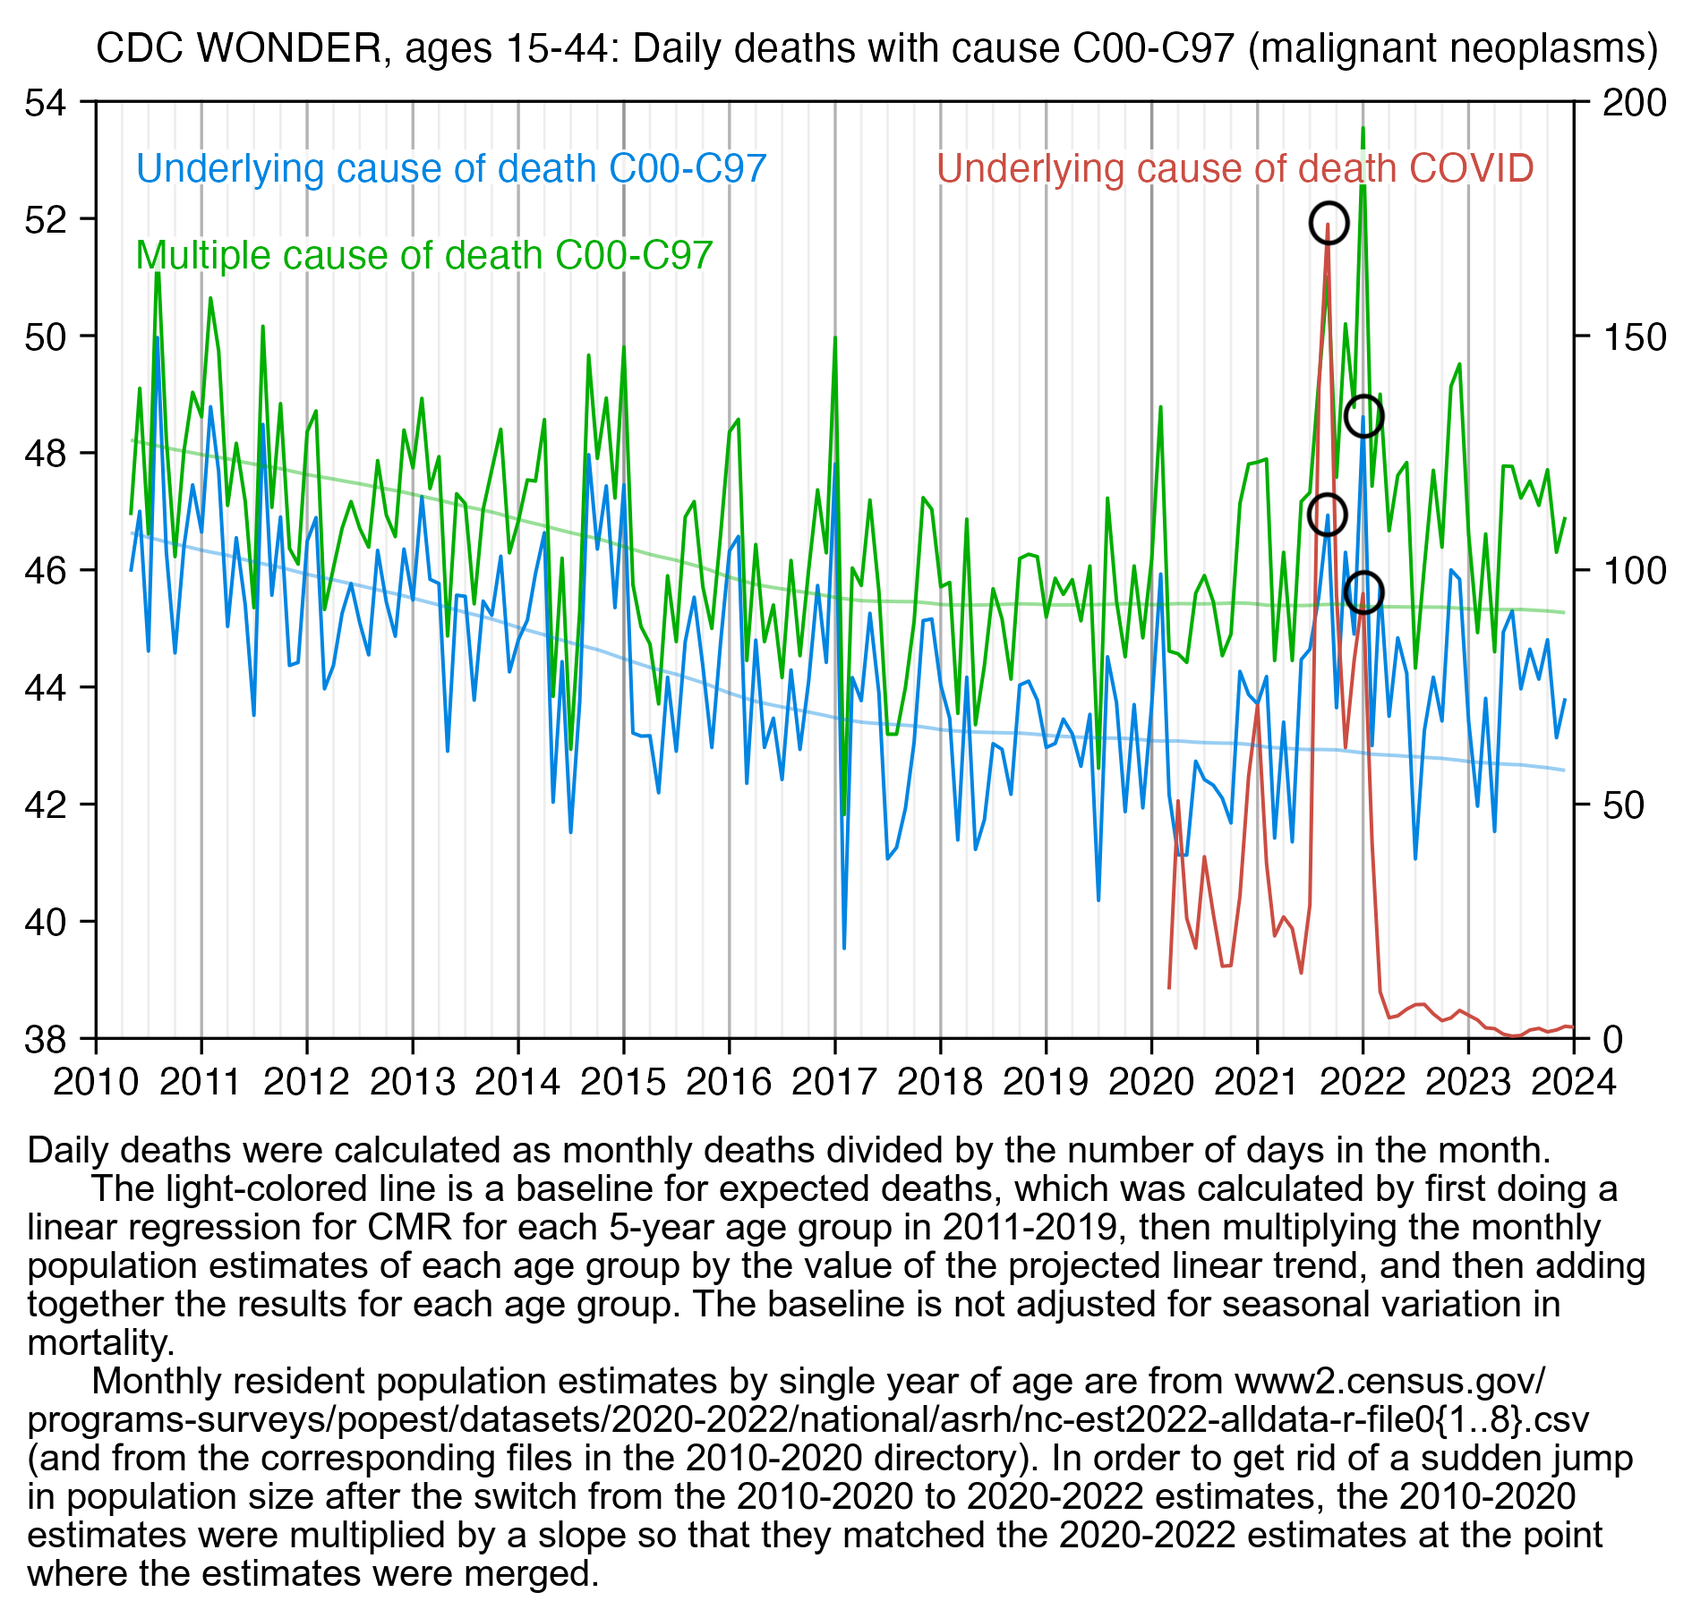
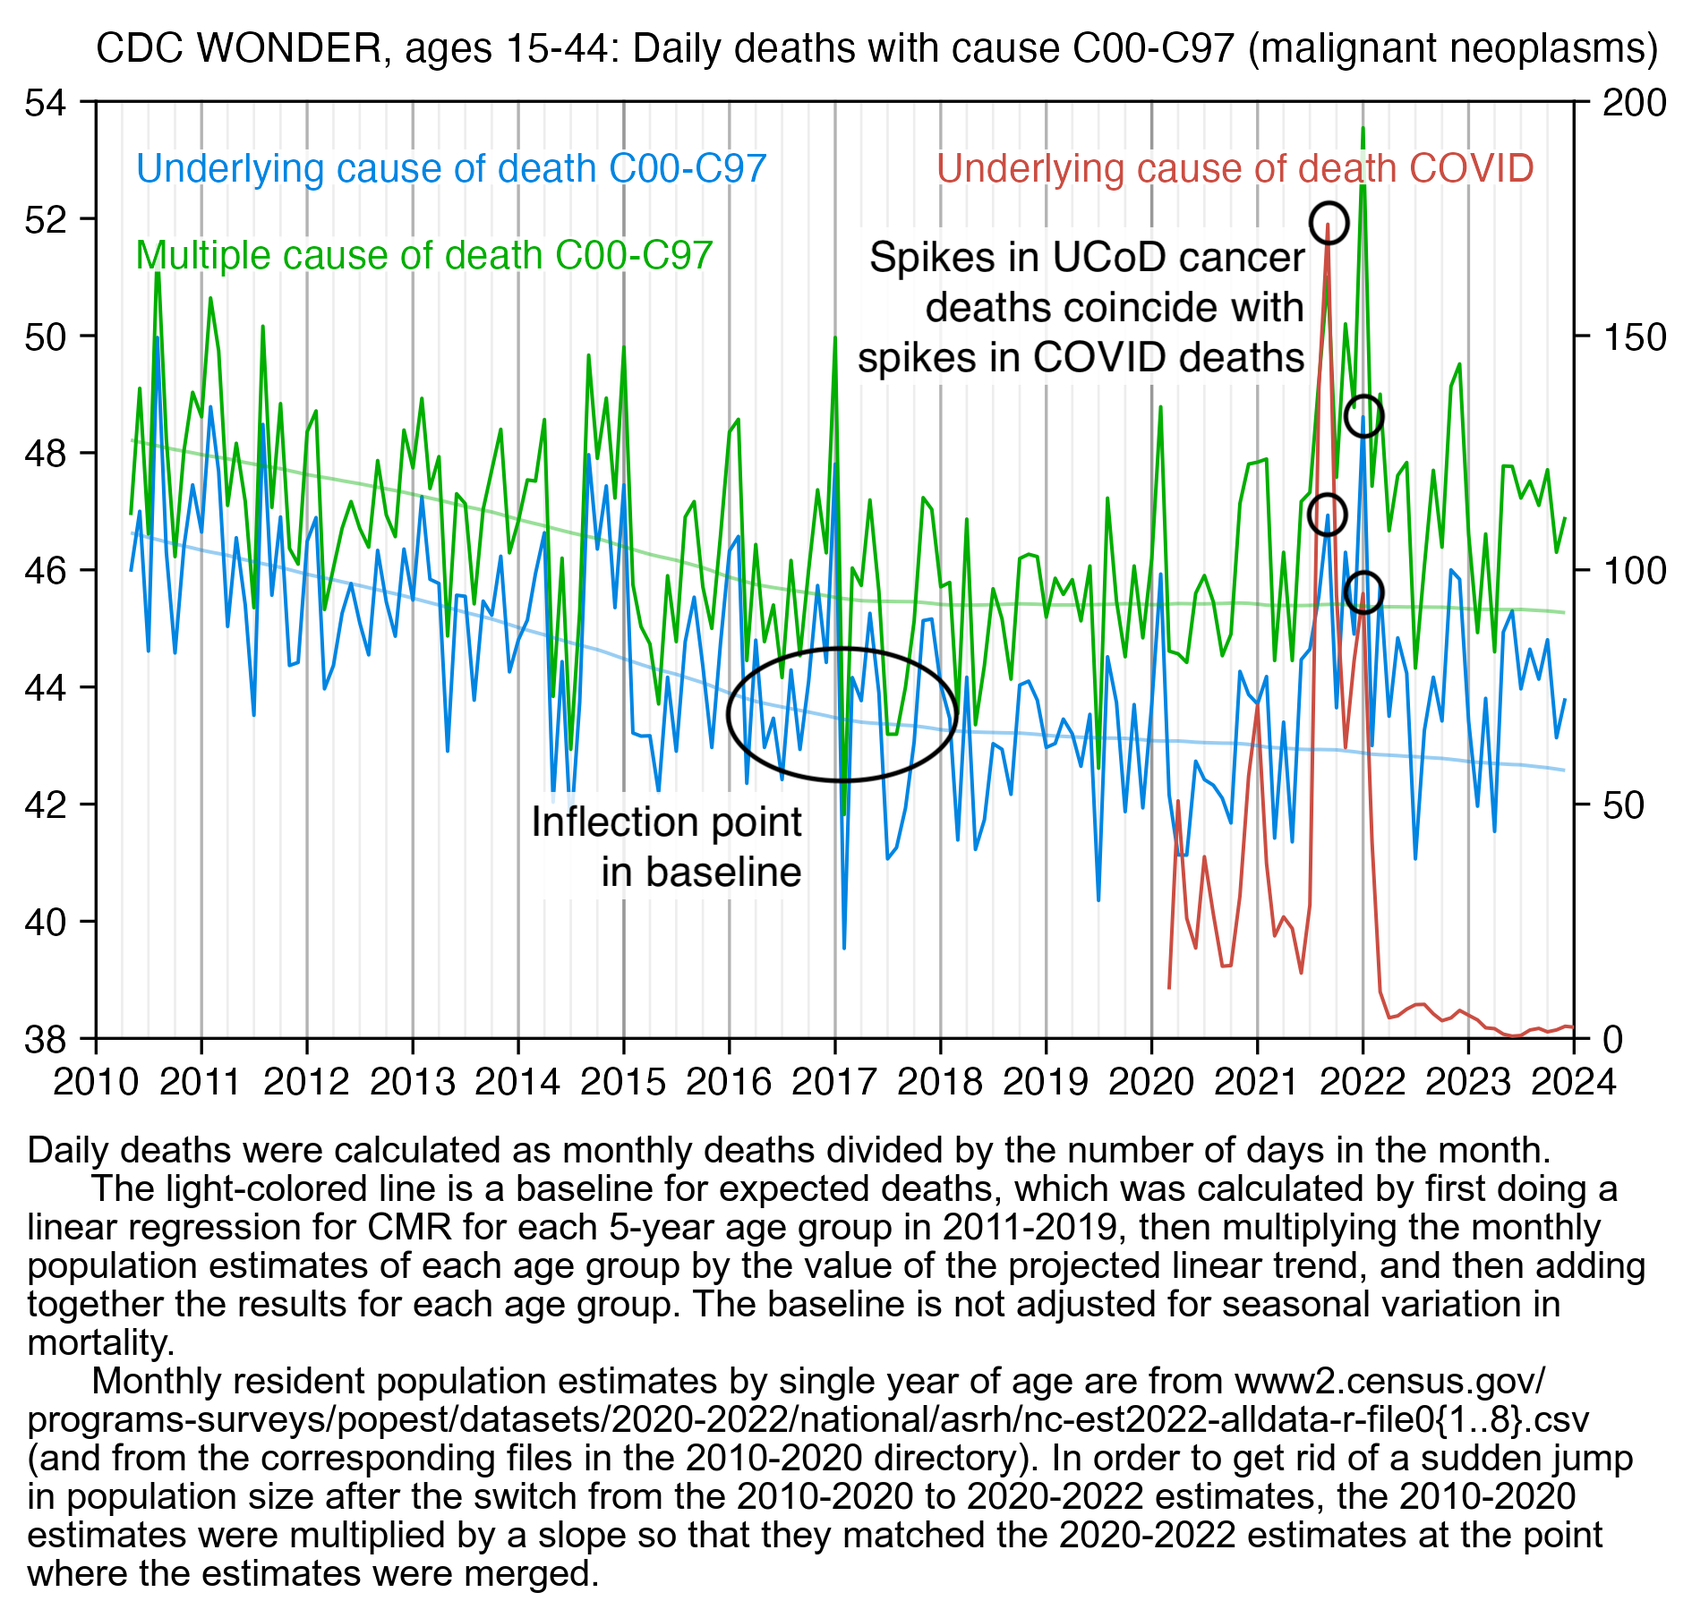
a

diff --git a/statistic.html b/statistic.html
@@ -1235,16 +1235,16 @@ system(&quot;f=0.png;w=`identify -format %w $f`;convert -interline-spacing -2 -g
 <div class="width4">
 <img src="i/statistic-dowd-1.jpg">
 </div>
-<p>However the x-axis in the plots above started in 2010, so you couldn't see that the the increase in mortality between 2020 and 2021 wasn't that big compared to the decrease since 1999 which is when the data at CDC WONDER starts. And you also couldn't see that the long-term trend in CMR between 1999 and 2020 looked curved so that it got flatter over time, and therefore the 2010-2019 linear trend used by Dowd's group might have been too steep relative to a longer-term polynomial trend:</p>
+<p>However the x-axis in the plots above started in 2010, so you couldn't see that the the increase in mortality between 2020 and 2021 wasn't that big compared to the decrease since 1999 (which is when the data at CDC WONDER starts). And you also couldn't see that the long-term trend in CMR between 1999 and 2019 looked curved so that it got flatter over time, and therefore the 2010-2019 linear trend used by Dowd's group might have been too steep relative to a longer-term polynomial trend:</p>
 <div class="width6">
 <img src="i/statistic-dowd-4.png">
 </div>
-<p>In Dowd's preprint they plotted only CMR and raw deaths but not ASMR. But relative to the decrease in mortality rate in the two previous decades, the increase between 2020 and 2021 was smaller with CMR than raw deaths, and it was even smaller with ASMR than CMR:</p>
+<p>In Dowd's preprint they plotted only CMR and raw deaths but not ASMR. But relative to the decrease in mortality rate in the two previous decades, the increase between 2020 and 2021 was smaller with CMR than with raw deaths, and it was even smaller with ASMR than with CMR:</p>
 <div class="width6">
 <img src="i/statistic-dowd-2.png">
 </div>
 <p>Dowd's team retrieved the data from CDC WONDER when it still used 2021 population estimates for 2022, so they got higher CMR in 2022 than 2021, like how the blue cross in my plot above is higher than the 2021 CMR. But I retrieved data from CDC WONDER after the 2022 population sizes had already been added, so I got lower CMR in 2022 than 2021.</p>
-<p>Here you can see that the 2023 population size is identical to 2022 because 2023 population estimates have not yet been added to CDC WONDER:</p>
+<p>Here you can see that the 2023 population size is identical to 2022 because 2023 population estimates had not yet been added to CDC WONDER at the time when I downloaded the data:</p>
 <pre>&gt; t=read.csv(&quot;http://sars2.net/f/wondercanceryearlysingle.csv&quot;)|&gt;subset(age%in%15:44)
 &gt; a=aggregate(t[,3:4],t[,2,drop=F],sum)
 &gt; tail(a)
@@ -1260,7 +1260,7 @@ system(&quot;f=0.png;w=`identify -format %w $f`;convert -interline-spacing -2 -g
 [1] 12.48556
 &gt; a$dead[a$year==2022]/a$pop[a$year==2021]*1e5
 [1] 12.63225</pre>
-<p>Here's code for producing the plot above:</p>
+<p>Here's code for producing the previous plot:</p>
 <pre>library(ggplot2)
 
 t=read.csv(&quot;http://sars2.net/f/wondercanceryearlysingle.csv&quot;)|&gt;subset(age%in%15:44)
@@ -1335,11 +1335,11 @@ theme(axis.text=element_text(size=7,color=&quot;black&quot;),
   plot.subtitle=element_text(size=7,margin=margin(0,0,.7,0,&quot;lines&quot;)),
   plot.title=element_text(size=8,margin=margin(0,0,.6,0,&quot;lines&quot;)))
 ggsave(&quot;1.png&quot;,width=4.3,height=3.5,dpi=450)</pre>
-<p>In the next plot I first calculated a linear trend in CMR within each 5-year age group in 2010-2019, and then I multiplied the projected baseline by the population size of each age group in order to get the expected deaths for each age group, and I added together the expected deaths on each month. So my method allows plotting raw deaths on the y-axis while taking changes to the age composition of the cohort into account. In my plot there's an inflection point in the slope of the baseline around the year 2017 after which the baseline becomes more flat. So the 2010-2019 linear baseline used by Dowd's group exaggerated excess deaths during COVID because the slope of the baseline was too steep.</p>
-<p>My plot also shows that in September 2021 and January 2022 when there's big spikes in COVID deaths, there's also more UCoD cancer deaths than in the surrounding months, so part of the increase in UCoD cancer deaths might be explained by COVID deaths:</p>
+<p>In the next plot I first calculated a linear trend in CMR within each 5-year age group in 2010-2019, and then I multiplied the projected baseline by the population size of each age group in order to get the expected deaths for each age group, and I added together the expected deaths on each month. So my method allows plotting raw deaths on the y-axis while simultaneously calculating the baseline so that it accounts for changes to the size of different age groups. In my plot there's an inflection point in the slope of the baseline around the year 2017 after which the baseline becomes more flat. So when Dowd's team plotted raw deaths using a 2010-2019 linear baseline, they exaggerated excess deaths during COVID because the slope of the baseline was too steep. My plot also shows that in September 2021 and January 2022 when there's big spikes in COVID deaths, there's also more UCoD cancer deaths than in the surrounding months, so a part of the increase in UCoD cancer deaths might be due to COVID:</p>
 <div class="width7">
 <img src="i/statistic-dowd-3.png">
 </div>
+<p>In the US young age groups had more COVID deaths in 2021 and 2022 relative to 2020, and old age groups had more COVID deaths in 2020 relative to 2021 and 2022, which might be because young age groups were less likely to be vaccinated.</p>
 <h2>
 <a href=#Ed_Dowd_Cancer_deaths_in_ages_75_84_at_CDC_WONDER id=Ed_Dowd_Cancer_deaths_in_ages_75_84_at_CDC_WONDER>Ed Dowd: Cancer deaths in ages 75-84 at CDC WONDER</a>
 </h2>
@@ -1388,7 +1388,7 @@ ggsave(&quot;1.png&quot;,width=4.3,height=3.5,dpi=450)</pre>
  2021 169929 16206075 1048.6 1000.3   48.2   9.5
  2022 176784 17520545 1009.0  978.5   30.5   6.0
  2023 183053 17520545 1044.8  956.6   88.2  17.4</pre>
-<p>In the plot below I used <code>tempdisagg::td</code> to interpolate yearly population sizes to monthly so that averages within years were preserved. I got the population size for 2023 by doing a linear regression for the trend in population size in 2015-2022. The population size falls far below the trend in 2021, but it gets corrected again in 2022 so that it roughly falls on the prepandemic trend:</p>
+<p>In the plot below I used <code>tempdisagg::td</code> to interpolate yearly population sizes to monthly so that averages within years were preserved. I got the population size for 2023 by doing a linear regression for the trend in population size in 2015-2022. The population size falls far below the trend in 2021, but it gets corrected again in 2022 so that it roughly falls back on the prepandemic trend:</p>
 <div class="width6">
 <img src="i/debunk-dowd-5.png">
 </div>
@@ -1403,7 +1403,7 @@ ggsave(&quot;1.png&quot;,width=4.3,height=3.5,dpi=450)</pre>
 <img src="i/debunk-dowd-7.png">
 </div>
 <p>However I'm not sure if the dip in births in 1945 is enough to explain the decrease in population size from 2020 to 2021.</p>
-<p>CDC WONDER uses the yearly population estimates produced by the US Census Bureau, which represent the population on July 1st of each year, so there probably weren't that many COVID deaths subtracted in the population estimate for 2020. But in any case, the reason why the cancer CMR increased so much from 2020 to 2021 might partially be if by 2021 more COVID deaths had been subtracted from the population estimate than in 2020. So then in the scenario where there's not that many people who would've died of cancer in 2021 if they hadn't died of COVID before, the COVID deaths in 2020-2021 might have artificially increased the cancer CMR in 2021 by reducing the population size.</p>
+<p>CDC WONDER uses the yearly population estimates produced by the US Census Bureau, which represent the population on July 1st of each year, so there probably weren't that many COVID deaths subtracted in the population estimate for 2020. But in any case, the reason why the cancer CMR increased so much from 2020 to 2021 might partially be if by 2021 more COVID deaths had been subtracted from the population estimate than in 2020. So then in the scenario where there's not that many people who would've died of cancer in 2021 if they hadn't died of COVID before, the COVID deaths in 2020-2021 might have artificially increased the cancer CMR in 2021 if they reduced the actual population size but it was not sufficiently accounted for in the population estimates.</p>
 <p>A methodology article by the US Census Bureau says: <span class="quote">&quot;In general, the birth and death data we receive from NCHS have a two-year lag. This means that the most recent final data we have on births and deaths by geographic and demographic detail for each vintage of estimates refer to the calendar year two years prior to the vintage year. For example, the most current full-detail birth and death data used in Vintage 2023 were from calendar year 2021. Additionally, for Vintage 2023 we utilized the available NCHS provisional data to account for recent trends and COVID-19 impacts on natality and mortality, which varied in recency by component.&quot;</span> [<a href="https://www2.census.gov/programs-surveys/popest/technical-documentation/methodology/2020-2023/methods-statement-v2023.pdf">https://www2.census.gov/programs-surveys/popest/technical-documentation/methodology/2020-2023/methods-statement-v2023.pdf</a>] However the Census Bureau may have accounted for COVID deaths with a shorter delay than for deaths from other causes.</p>
 <p>The US Census Bureau publishes new population estimates annually so that the past population estimates get revised in new releases. For example the vintage 2020 population estimate for the year 2020 was much higher than the vintage 2021 and 2022 estimates for the year 2020. But CDC WONDER uses the vintage 2020 population estimate for the year 2020, vintage 2021 estimate for the year 2021, and vintage 2022 estimate for the year 2022:</p>
 <pre>&gt; t=read.csv(&quot;https://www2.census.gov/programs-surveys/popest/datasets/2020-2022/national/asrh/nc-est2022-agesex-res.csv&quot;)
@@ -1418,14 +1418,14 @@ ggsave(&quot;1.png&quot;,width=4.3,height=3.5,dpi=450)</pre>
 <div class="width6">
 <img src="i/debunk-dowd-8.png">
 </div>
-<p>The population estimates for 2020 may have been revised downwards in the vintage 2021 release because of COVID deaths or because of changes to the methodology of accounting for COVID. The vintage 2021 methodology article said: <span class="quote">&quot;To account for changes to natality resulting from the COVID-19 pandemic, we also incorporated monthly total births for the nation in the first quarter of 2021 and used recent trends to project births for the second quarter of the year. To reflect the impact of COVID-19 on deaths, we had data for the first half of 2021 that includes recent trends and patterns of excess mortality from the pandemic. Essentially, the NCHS data are used in conjunction with the data received from the FSCPE to create short-term projections that approximate the final NCHS data by characteristics.&quot;</span> [<a href="https://www2.census.gov/programs-surveys/popest/technical-documentation/methodology/2020-2021/methods-statement-v2021.pdf">https://www2.census.gov/programs-surveys/popest/technical-documentation/methodology/2020-2021/methods-statement-v2021.pdf</a>] However the vintage 2020 methodology article didn't mention if they took COVID deaths into account, but only that they accounted for changes to migration patterns because of COVID. [<a href="https://www2.census.gov/programs-surveys/popest/technical-documentation/methodology/2010-2020/methods-statement-v2020-final.pdf">https://www2.census.gov/programs-surveys/popest/technical-documentation/methodology/2010-2020/methods-statement-v2020-final.pdf</a>]</p>
-<p>An annoying feature at CDC WONDER is that it doesn't return population sizes for monthly or weekly data but only yearly data. However the US Census Bureau has actually produced monthly population estimates by single year of age, even though they seem to be interpolated from quarterly population estimates: [<a href="https://www2.census.gov/programs-surveys/popest/datasets/2020-2022/national/asrh/">https://www2.census.gov/programs-surveys/popest/datasets/2020-2022/national/asrh/</a>, <a href="https://www2.census.gov/programs-surveys/popest/datasets/2010-2020/national/asrh/">https://www2.census.gov/programs-surveys/popest/datasets/2010-2020/national/asrh/</a>]</p>
+<p>The population estimates for 2020 may have been revised downwards in the vintage 2021 release because of COVID deaths or because of changes to the methodology of accounting for COVID. The methodology article of the vintage 2021 release said: <span class="quote">&quot;To account for changes to natality resulting from the COVID-19 pandemic, we also incorporated monthly total births for the nation in the first quarter of 2021 and used recent trends to project births for the second quarter of the year. To reflect the impact of COVID-19 on deaths, we had data for the first half of 2021 that includes recent trends and patterns of excess mortality from the pandemic. Essentially, the NCHS data are used in conjunction with the data received from the FSCPE to create short-term projections that approximate the final NCHS data by characteristics.&quot;</span> [<a href="https://www2.census.gov/programs-surveys/popest/technical-documentation/methodology/2020-2021/methods-statement-v2021.pdf">https://www2.census.gov/programs-surveys/popest/technical-documentation/methodology/2020-2021/methods-statement-v2021.pdf</a>] However the vintage 2020 methodology article didn't mention if they took COVID deaths into account, but only that they accounted for changes to migration patterns because of COVID. [<a href="https://www2.census.gov/programs-surveys/popest/technical-documentation/methodology/2010-2020/methods-statement-v2020-final.pdf">https://www2.census.gov/programs-surveys/popest/technical-documentation/methodology/2010-2020/methods-statement-v2020-final.pdf</a>]</p>
+<p>An annoying feature at CDC WONDER is that it doesn't return population sizes for monthly or weekly data but only yearly data. However the US Census Bureau has actually produced monthly population estimates by single year of age, even though they seem to be interpolated from quarterly population estimates. [<a href="https://www2.census.gov/programs-surveys/popest/datasets/2020-2022/national/asrh/">https://www2.census.gov/programs-surveys/popest/datasets/2020-2022/national/asrh/</a>, <a href="https://www2.census.gov/programs-surveys/popest/datasets/2010-2020/national/asrh/">https://www2.census.gov/programs-surveys/popest/datasets/2010-2020/national/asrh/</a>] This code combines the monthly resident population estimates into a single file:</p>
 <pre>u=https://www2.census.gov/programs-surveys/popest/datasets
 parallel -j20 curl -s ::: $u/2020-2022/national/asrh/nc-est2022-alldata-r-file0{1..8}.csv|awk &#39;NR==1||!/UNIVERSE/&#39;&gt;new
 parallel -j20 curl -s ::: $u/2010-2020/national/asrh/NC-EST2020-ALLDATA-R-File{01..24}.csv|awk &#39;NR==1||!/UNIVERSE/&#39; &gt;old
 sed 1d old|cut -d, -f2-5|awk -F, &#39;$2!=2021&amp;&amp;($2!=2020||$1&lt;4)&#39;|cat - &lt;(sed 1d new|cut -d, -f2-5)|awk -F, &#39;$3!=999&amp;&amp;$1!~/4\.[12]/{print$3 FS$2 FS$1 FS$4}&#39;|sort -t, -nk1,1 -nk2,2 -nk3,3|sed s/X//|(echo age,year,month,pop;cat)&gt;usmonthpop.csv</pre>
 <p>In the plot below I used the monthly resident population estimates generated by the code above, which are somewhat different from the yearly population estimates that are used by CDC WONDER.</p>
-<p>If the plot below was missing the lines for the blue baseline and population size so that it would only include the lines for the raw number of deaths and the gray baseline, it would seem like there was a sudden unexplained inflection point in the number of deaths in mid-2021. However actually the inflection point was because in mid-2021 the population size of ages 75-84 started to increase dramatically, because the baby boomers who were born in the second half of 1946 started to turn 75. In the US births per year peaked in 1947, but there was already a big increase in births in the second half of 1946. So therefore the gray baseline which is based on the linear trend in raw deaths in 2010-2019 is far too low. But the blue baseline is more accurate, and relative to the blue baseline there were negative excess deaths in 2021-2023:</p>
+<p>If the plot below would be missing the lines for the blue baseline and population size so that it would only include the lines for the raw number of deaths and the gray baseline, it would seem like there was a sudden unexplained inflection point in the number of deaths in mid-2021. However actually the inflection point was because in mid-2021 the population size of ages 75-84 started to increase dramatically, because the baby boomers who were born in the second half of 1946 started to turn 75. Births per year peaked in 1947, but there was already a big increase in births in the second half of 1946. So therefore the gray baseline which is based on the linear trend in raw deaths in 2010-2019 is far too low in 2021-2023. But the blue baseline is more accurate, and relative to the blue baseline there were actually negative excess cancer deaths in 2021-2023:</p>
 <div class="width6">
 <img src="i/debunk-dowd-9.png">
 </div>
